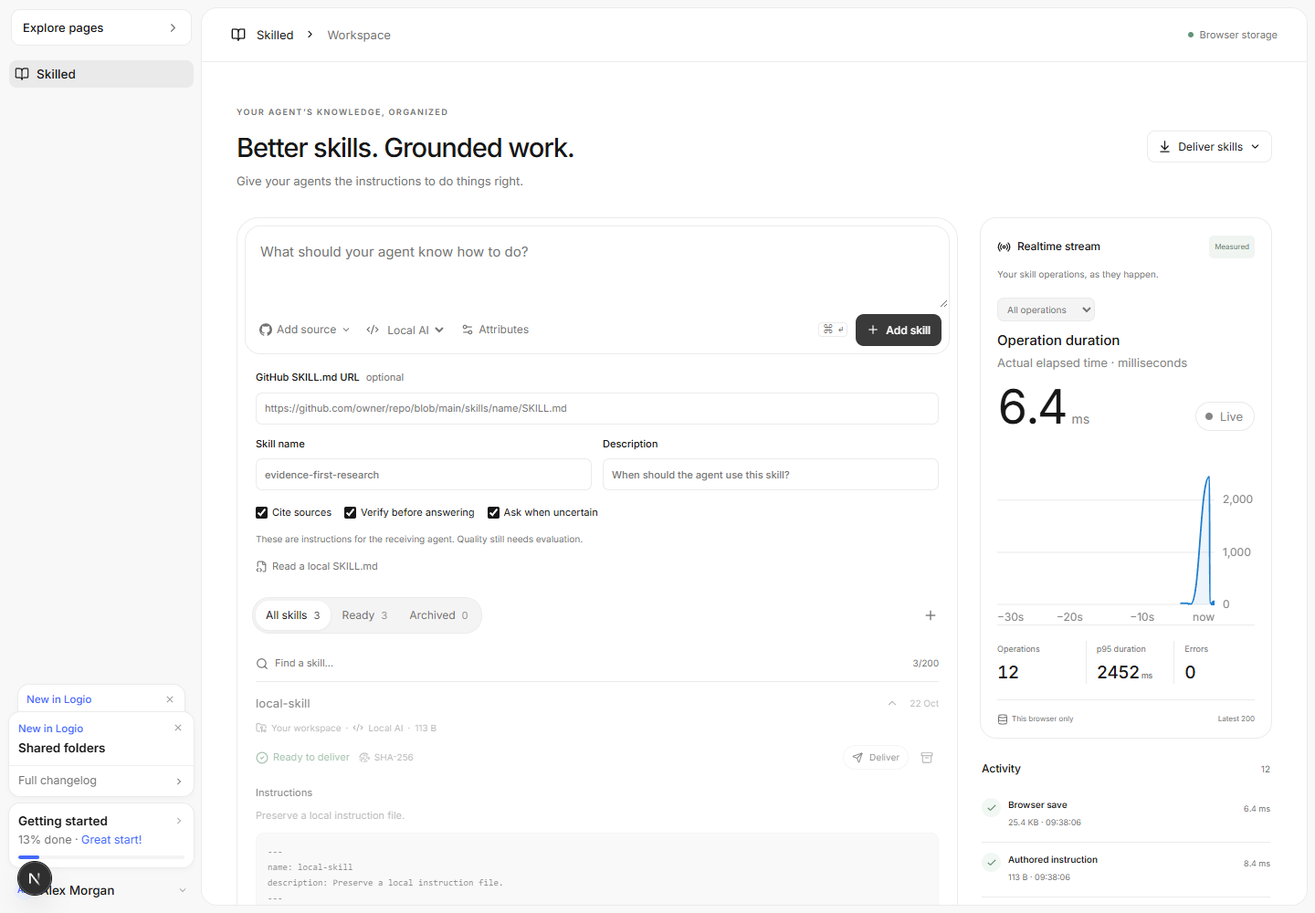
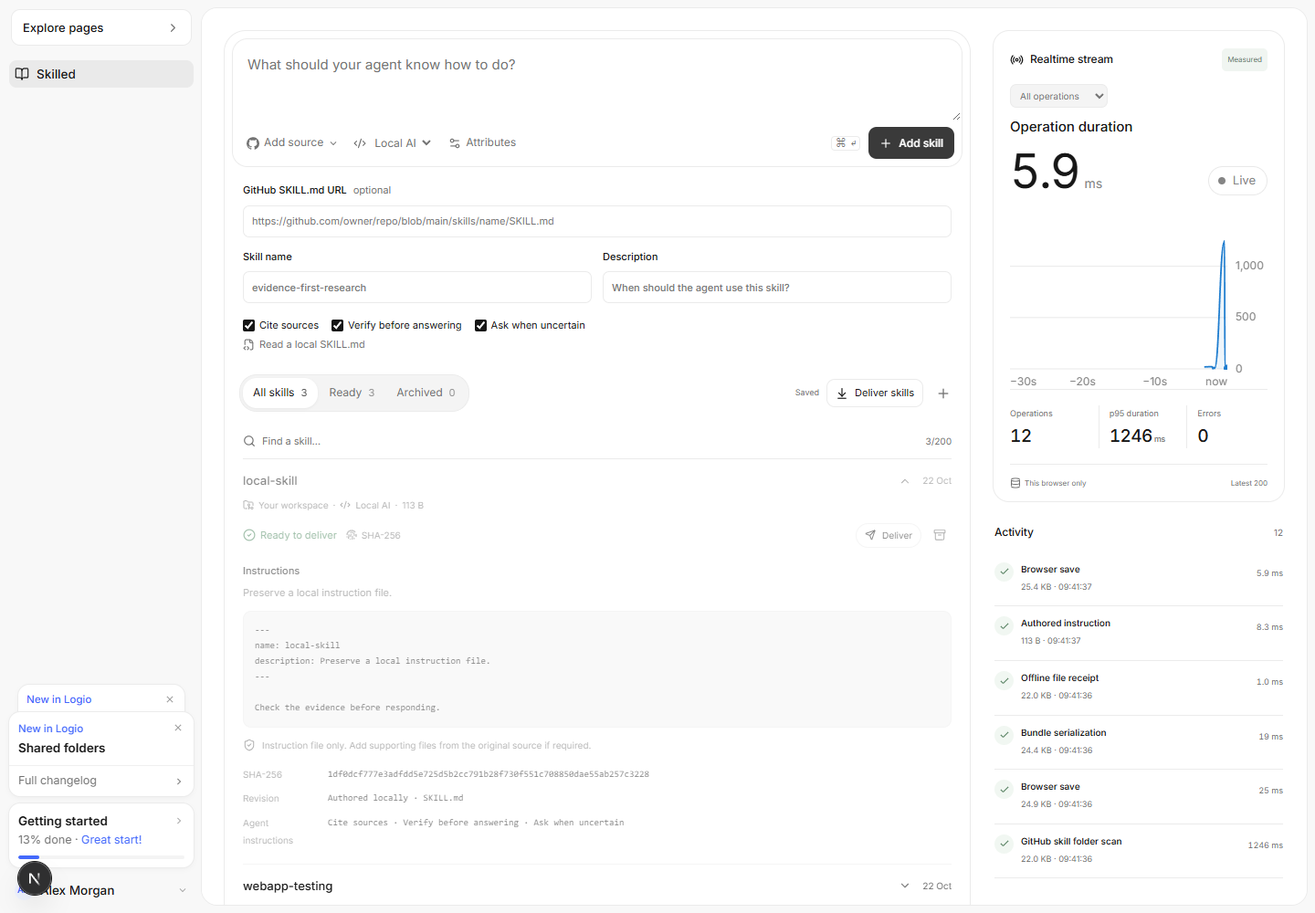
deleted component

diff --git a/src/components/sites/skilled/Skilled.tsx b/src/components/sites/skilled/Skilled.tsx
@@ -2,7 +2,7 @@
 
 import { useEffect, useRef, useState, type FormEvent } from "react";
 import { AnimatePresence, motion } from "motion/react";
-import { Archive, ArrowDownToLine, ArrowRight, BookOpen, Check, CheckCircle2, ChevronDown, ChevronRight, CircleAlert, Code2, Database, FileCode2, Fingerprint, FolderGit2, HardDrive, Loader2, Plus, Radio, RotateCcw, Search, Send, Settings2, ShieldCheck, Sparkles, X } from "lucide-react";
+import { Archive, ArrowDownToLine, ArrowRight, BookOpen, Check, CheckCircle2, ChevronDown, CircleAlert, Code2, Database, FileCode2, Fingerprint, FolderGit2, Loader2, Plus, Radio, RotateCcw, Search, Send, Settings2, ShieldCheck, X } from "lucide-react";
 import { WorkspaceDialog } from "../affectui-crm/WorkspaceDialog";
 import { downloadFile } from "../affectui-crm/workspace-state";
 import { SectionSkeleton } from "../shimmer-loader/SectionSkeleton";
@@ -49,7 +49,6 @@ export function Skilled({ workspaceId }: { workspaceId: string }) {
   const successful = measures.filter(event => event.outcome === "success");
   const sorted = successful.map(event => event.durationMs).sort((a, b) => a - b);
   const p95 = sorted.length ? sorted[Math.ceil(sorted.length * .95) - 1] : null;
-  const totalBytes = skills.reduce((sum, skill) => sum + totalSkillBytes(skill), 0);
   const bytes = (value: number) => value < 1024 ? `${value} B` : `${(value / 1024).toFixed(1)} KB`;
   const tell = (message: string) => { setNotice(message); setError(""); };
 
@@ -149,33 +148,29 @@ export function Skilled({ workspaceId }: { workspaceId: string }) {
   }
 
   if (sync.phase !== "ready") return <SectionSkeleton section="Skilled" />;
-  return <div className="sk-workspace">
-    <header className="sk-topbar"><div><BookOpen size={16} /><span>Skilled</span><ChevronRight size={13} /><span>Workspace</span></div><span className="sk-storage"><i />{backend.remote ? "Connected backend" : "Browser storage"}</span></header>
+  return <div className="sk-workspace" role="region" aria-label="Skilled workspace">
     <div className="sk-content">
-      <div className="sk-heading"><div><div className="sk-eyebrow">YOUR AGENT’S KNOWLEDGE, ORGANIZED</div><h1>Better skills. Grounded work.</h1><p>Give your agents the instructions to do things right.</p></div><button className="sk-secondary" onClick={() => { setSelected(ready.map(skill => skill.id)); setTransfer(true); }} disabled={!ready.length}><ArrowDownToLine size={15} />Deliver skills<ChevronDown size={13} /></button></div>
       <div className="sk-layout"><div className="sk-primary">
         <section className="sk-task-panel" aria-label="Skill library">
           <form className="sk-composer" onSubmit={submit} aria-label="Add a skill">
             <div className="sk-composer-field"><label className="sk-sr-only" htmlFor="sk-instructions">Skill instructions</label><textarea id="sk-instructions" placeholder={url ? "Additional instructions for this skill (optional)" : "What should your agent know how to do?"} value={instructions} onChange={event => { setInstructions(event.target.value); if (!url) setAttributes(true); }} onKeyDown={event => { if ((event.ctrlKey || event.metaKey) && event.key === "Enter") { event.preventDefault(); void addSkill(); } }} maxLength={200000} />
               <div className="sk-composer-bar"><div className="sk-chips"><button type="button" className="sk-chip" onClick={() => { setAttributes(true); document.getElementById("sk-source")?.focus(); }}><Github size={14} /><span>{url ? "GitHub source" : "Add source"}</span><ChevronDown size={12} /></button><label className="sk-chip"><Code2 size={14} /><select aria-label="Skill target" value={target} onChange={event => setTarget(event.target.value as SkillTarget)}><option>Local AI</option><option>AI Agent</option></select></label><button type="button" className="sk-chip" aria-expanded={attributes} onClick={() => setAttributes(!attributes)}><Settings2 size={14} /><span>Attributes</span></button></div><div className="sk-start-slot"><kbd>⌘ ↵</kbd><button className="sk-start" type="submit" disabled={busy || Boolean(sync.error) || (!url.trim() && !instructions.trim())}>{busy ? <Loader2 size={14} className="sk-spin" /> : <Plus size={14} />}Add skill</button></div></div>
             </div>
-            <AnimatePresence initial={false}>{attributes && <motion.div className="sk-attributes" initial={{ height: 0, opacity: 0 }} animate={{ height: "auto", opacity: 1 }} exit={{ height: 0, opacity: 0 }} transition={{ type: "spring", stiffness: 350, damping: 34 }}><div><label htmlFor="sk-source">GitHub SKILL.md URL <span>optional</span></label><input id="sk-source" type="url" placeholder="https://github.com/owner/repo/blob/main/skills/name/SKILL.md" value={url} onChange={event => setUrl(event.target.value)} />{!url && <div className="sk-form-grid"><label>Skill name<input placeholder="evidence-first-research" value={name} maxLength={64} onChange={event => setName(event.target.value)} /></label><label>Description<input placeholder="When should the agent use this skill?" value={description} maxLength={2048} onChange={event => setDescription(event.target.value)} /></label></div>}<div className="sk-guardrails">{([["citeSources", "Cite sources"], ["verifyBeforeAnswer", "Verify before answering"], ["askWhenUncertain", "Ask when uncertain"]] as const).map(([key, label]) => <label key={key}><input type="checkbox" checked={guardrails[key]} onChange={event => setGuardrails({ ...guardrails, [key]: event.target.checked })} />{label}</label>)}</div><p>These are instructions for the receiving agent. Quality still needs evaluation.</p><button type="button" className="sk-text-button" onClick={() => inputFile.current?.click()}><FileCode2 size={13} />Read a local SKILL.md</button><input type="file" accept=".md,text/markdown,text/plain" hidden ref={inputFile} onChange={async event => { const file = event.target.files?.[0]; if (!file) return; if (file.size > 200000) { setError("Choose a SKILL.md smaller than 200 KB."); return; } try { const text = await file.text(); const metadata = parseSkillMarkdown(text); setInstructions(text); setName(metadata.name); setDescription(metadata.description); setUrl(""); tell("SKILL.md read. Original contents will be preserved."); } catch (failure) { setError(failure instanceof Error ? failure.message : "Invalid SKILL.md."); } event.target.value = ""; }} /></div></motion.div>}</AnimatePresence>
+            <AnimatePresence initial={false}>{attributes && <motion.div className="sk-attributes" initial={{ height: 0, opacity: 0 }} animate={{ height: "auto", opacity: 1 }} exit={{ height: 0, opacity: 0 }} transition={{ type: "spring", stiffness: 350, damping: 34 }}><div><label htmlFor="sk-source">GitHub SKILL.md URL <span>optional</span></label><input id="sk-source" type="url" placeholder="https://github.com/owner/repo/blob/main/skills/name/SKILL.md" value={url} onChange={event => setUrl(event.target.value)} />{!url && <div className="sk-form-grid"><label>Skill name<input placeholder="evidence-first-research" value={name} maxLength={64} onChange={event => setName(event.target.value)} /></label><label>Description<input placeholder="When should the agent use this skill?" value={description} maxLength={2048} onChange={event => setDescription(event.target.value)} /></label></div>}<div className="sk-guardrails">{([["citeSources", "Cite sources"], ["verifyBeforeAnswer", "Verify before answering"], ["askWhenUncertain", "Ask when uncertain"]] as const).map(([key, label]) => <label key={key}><input type="checkbox" checked={guardrails[key]} onChange={event => setGuardrails({ ...guardrails, [key]: event.target.checked })} />{label}</label>)}</div><button type="button" className="sk-text-button" onClick={() => inputFile.current?.click()}><FileCode2 size={13} />Read a local SKILL.md</button><input type="file" accept=".md,text/markdown,text/plain" hidden ref={inputFile} onChange={async event => { const file = event.target.files?.[0]; if (!file) return; if (file.size > 200000) { setError("Choose a SKILL.md smaller than 200 KB."); return; } try { const text = await file.text(); const metadata = parseSkillMarkdown(text); setInstructions(text); setName(metadata.name); setDescription(metadata.description); setUrl(""); tell("SKILL.md read. Original contents will be preserved."); } catch (failure) { setError(failure instanceof Error ? failure.message : "Invalid SKILL.md."); } event.target.value = ""; }} /></div></motion.div>}</AnimatePresence>
           </form>
-          <div className="sk-library-toolbar"><div className="sk-tabs" role="tablist" aria-label="Filter skills">{([["all", "All skills"], ["ready", "Ready"], ["archived", "Archived"]] as const).map(([id, label], index) => <button key={id} role="tab" aria-selected={filter === id} tabIndex={filter === id ? 0 : -1} onKeyDown={event => { if (["ArrowLeft", "ArrowRight", "Home", "End"].includes(event.key)) { event.preventDefault(); const next = event.key === "Home" ? 0 : event.key === "End" ? 2 : (index + (event.key === "ArrowRight" ? 1 : 2)) % 3; setFilter((["all", "ready", "archived"] as const)[next]); (event.currentTarget.parentElement?.children[next] as HTMLElement)?.focus(); } }} onClick={() => setFilter(id)}>{filter === id && <motion.span layoutId="skill-filter" transition={{ type: "spring", stiffness: 450, damping: 38 }} />}<span>{label}</span><span className="sk-count">{id === "all" ? skills.length : skills.filter(skill => skill.status === id).length}</span></button>)}</div><button className="sk-icon-button" aria-label="Browse skill sources" onClick={() => setCatalog(true)}><Plus size={16} /></button></div>
+          <div className="sk-library-toolbar"><div className="sk-tabs" role="tablist" aria-label="Filter skills">{([["all", "All skills"], ["ready", "Ready"], ["archived", "Archived"]] as const).map(([id, label], index) => <button key={id} role="tab" aria-selected={filter === id} tabIndex={filter === id ? 0 : -1} onKeyDown={event => { if (["ArrowLeft", "ArrowRight", "Home", "End"].includes(event.key)) { event.preventDefault(); const next = event.key === "Home" ? 0 : event.key === "End" ? 2 : (index + (event.key === "ArrowRight" ? 1 : 2)) % 3; setFilter((["all", "ready", "archived"] as const)[next]); (event.currentTarget.parentElement?.children[next] as HTMLElement)?.focus(); } }} onClick={() => setFilter(id)}>{filter === id && <motion.span layoutId="skill-filter" transition={{ type: "spring", stiffness: 450, damping: 38 }} />}<span>{label}</span><span className="sk-count">{id === "all" ? skills.length : skills.filter(skill => skill.status === id).length}</span></button>)}</div><div className="sk-library-actions"><span className="sk-save-status">{sync.save === "saving" ? "Saving…" : sync.error ? "Save failed" : "Saved"}</span><button className="sk-secondary sk-deliver-all" aria-label="Deliver skills" onClick={() => { setSelected(ready.map(skill => skill.id)); setTransfer(true); }} disabled={!ready.length}><ArrowDownToLine size={14} /><span>Deliver skills</span></button><button className="sk-icon-button" aria-label="Browse skill sources" onClick={() => setCatalog(true)}><Plus size={16} /></button></div></div>
           {skills.length > 0 && <label className="sk-search"><Search size={14} /><input aria-label="Search skills" placeholder="Find a skill…" value={query} onChange={event => setQuery(event.target.value)} /><span>{skills.length}/200</span></label>}
           <div className="sk-cards"><AnimatePresence initial={false}>{visible.map(skill => <motion.article layout key={skill.id} className="sk-card" initial={{ opacity: 0, height: 0 }} animate={{ opacity: 1, height: "auto" }} exit={{ opacity: 0, height: 0 }} transition={{ type: "spring", stiffness: 350, damping: 34 }}>
             <div className="sk-card-title"><button aria-expanded={expanded === skill.id} aria-controls={`detail-${skill.id}`} onClick={() => setExpanded(expanded === skill.id ? null : skill.id)}><span>{skill.name}</span><ChevronDown size={14} /></button><time dateTime={skill.importedAt}>{new Date(skill.importedAt).toLocaleDateString("en-GB", { day: "numeric", month: "short", timeZone: "Asia/Ho_Chi_Minh" })}</time></div>
             <div className="sk-card-meta"><FolderGit2 size={12} /><span>{skill.sourceUrl ? new URL(skill.sourceUrl).pathname.split("/").slice(1, 3).join("/") : "Your workspace"}</span><span>·</span><Code2 size={12} /><span>{skill.target}</span><span>·</span><span>{bytes(totalSkillBytes(skill))}</span></div>
             <div className="sk-card-state"><span><CheckCircle2 size={14} />{skill.status === "archived" ? "Archived" : "Ready to deliver"}</span><span className="sk-checksum"><Fingerprint size={12} />SHA-256</span><div className="sk-card-actions">{skill.status === "ready" ? <><button className="sk-secondary sk-small" onClick={() => { setSelected([skill.id]); setTransfer(true); }}><Send size={12} />Deliver</button><button className="sk-icon-button" aria-label={`Archive ${skill.name}`} onClick={() => archive(skill)}><Archive size={14} /></button></> : <button className="sk-secondary sk-small" onClick={() => { if (skills.some(item => item.id !== skill.id && item.name === skill.name && item.status === "ready")) { setError("Archive the active version before restoring this one."); return; } setSkills(current => current.map(item => item.id === skill.id ? { ...item, status: "ready" } : item)); }}><RotateCcw size={12} />Restore</button>}</div></div>
             <AnimatePresence initial={false}>{expanded === skill.id && <motion.div id={`detail-${skill.id}`} initial={{ height: 0, opacity: 0 }} animate={{ height: "auto", opacity: 1 }} exit={{ height: 0, opacity: 0 }} transition={{ type: "spring", stiffness: 350, damping: 34 }} className="sk-card-details"><div><h3>Instructions</h3><p>{skill.description}</p><pre>{skill.instructions}</pre><div className="sk-provenance"><ShieldCheck size={14} /><span>{skill.files ? `Skill folder captured: ${skill.files.length + 1} files. External tools or packages may still be required.` : "Instruction file only. Add supporting files from the original source if required."}</span></div>{skill.files && skill.files.length > 0 && <div className="sk-file-list"><h3>Supporting files</h3>{skill.files.map(file => <div key={file.path} title={`SHA-256: ${file.sha256}`}><FileCode2 size={12} /><code>{file.path}</code><span>{bytes(file.bytes)}</span></div>)}</div>}{skill.sourceUrl && <a href={skill.sourceUrl} target="_blank" rel="noreferrer">Inspect original source <ArrowRight size={12} /></a>}<dl><dt>SHA-256</dt><dd>{skill.sha256}</dd><dt>Revision</dt><dd>{skill.sourceRef || "Authored locally"} · {skill.sourcePath || "SKILL.md"}</dd><dt>Agent instructions</dt><dd>{Object.entries(skill.guardrails).filter(([, enabled]) => enabled).map(([key]) => ({ citeSources: "Cite sources", verifyBeforeAnswer: "Verify before answering", askWhenUncertain: "Ask when uncertain" })[key]).join(" · ") || "No additional guardrails"}</dd></dl></div></motion.div>}</AnimatePresence>
-          </motion.article>)}</AnimatePresence>{!visible.length && <div className="sk-empty"><div className="sk-empty-icon"><BookOpen size={23} /><span><Plus size={10} /></span></div><h2>{skills.length ? "No skills in this view" : "A little knowledge goes a long way."}</h2><p>{skills.length ? "Try a different filter or search." : "Bring a skill from GitHub, or write your own. Keep the source and instructions together."}</p><button className="sk-secondary" onClick={() => setCatalog(true)}>Explore skill sources<ArrowRight size={14} /></button></div>}</div>
-          <footer className="sk-panel-footer"><ShieldCheck size={13} /><span>Traceable instructions. No hidden agent runs.</span><span>{sync.save === "saving" ? "Saving…" : sync.error ? "Save failed" : "Saved"}</span></footer>
+          </motion.article>)}</AnimatePresence>{!visible.length && <div className="sk-empty"><div className="sk-empty-icon"><BookOpen size={23} /><span><Plus size={10} /></span></div><h2>{skills.length ? "No skills in this view" : "No skills yet"}</h2><p>{skills.length ? "Try a different filter or search." : "Import from GitHub or add your own instructions."}</p><button className="sk-secondary" onClick={() => setCatalog(true)}>Explore skill sources<ArrowRight size={14} /></button></div>}</div>
         </section>
-        <section className="sk-discover"><div className="sk-section-title"><h2>A good place to start</h2><button onClick={() => setCatalog(true)}>View all sources<ArrowRight size={13} /></button></div><div className="sk-source-grid">{skillSources.slice(0, 3).map(source => <button className="sk-source" key={source.path} disabled={busy} onClick={() => { setUrl(sourceUrl(source)); setAttributes(true); setCatalog(false); }}><span className="sk-source-icon"><Github size={17} /></span><span className="sk-source-category">{source.category}</span><h3>{source.name}</h3><p>{source.description}</p><span className="sk-source-owner">{source.owner}<ArrowRight size={13} /></span></button>)}</div></section>
+        <section className="sk-discover"><div className="sk-section-title"><h2>Skill sources</h2><button onClick={() => setCatalog(true)}>View all sources<ArrowRight size={13} /></button></div><div className="sk-source-grid">{skillSources.slice(0, 3).map(source => <button className="sk-source" key={source.path} disabled={busy} onClick={() => { setUrl(sourceUrl(source)); setAttributes(true); setCatalog(false); }}><span className="sk-source-icon"><Github size={17} /></span><span className="sk-source-category">{source.category}</span><h3>{source.name}</h3><p>{source.description}</p><span className="sk-source-owner">{source.owner}<ArrowRight size={13} /></span></button>)}</div></section>
       </div><aside className="sk-observability" aria-label="Skill operations measurement">
-        <section className="sk-monitor"><div className="sk-section-title"><h2><Radio size={15} />Realtime stream</h2><span className="sk-observed">Measured</span></div><p className="sk-monitor-description">Your skill operations, as they happen.</p><select className="sk-metric-select" aria-label="Measurement type" value={metric} onChange={event => setMetric(event.target.value)}><option value="all">All operations</option><option value="save">Storage writes</option><option value="import">Imports</option><option value="export">Bundle exports</option><option value="transfer">Agent transfers</option></select><RealtimeStream points={measures.map(event => ({ t: event.t, value: event.durationMs, anomaly: event.outcome === "error" ? "Failed" : undefined }))} label="Operation duration" description="Actual elapsed time · milliseconds" emptyLabel="Add a skill to see your first measurement" unit="ms" /><div className="sk-metrics"><div><span>Operations</span><strong>{measures.length}</strong></div><div><span>p95 duration</span><strong>{p95 === null ? "—" : p95 < 10 ? p95.toFixed(1) : Math.round(p95)}<small>{p95 !== null && " ms"}</small></strong></div><div><span>Errors</span><strong>{measures.filter(event => event.outcome === "error").length}</strong></div></div><div className="sk-monitor-foot"><span><Database size={12} />{backend.remote ? "Configured REST backend" : "This browser only"}</span><span>Latest 200</span></div></section>
+        <section className="sk-monitor"><div className="sk-section-title"><h2><Radio size={15} />Realtime stream</h2><span className="sk-observed">Measured</span></div><select className="sk-metric-select" aria-label="Measurement type" value={metric} onChange={event => setMetric(event.target.value)}><option value="all">All operations</option><option value="save">Storage writes</option><option value="import">Imports</option><option value="export">Bundle exports</option><option value="transfer">Agent transfers</option></select><RealtimeStream points={measures.map(event => ({ t: event.t, value: event.durationMs, anomaly: event.outcome === "error" ? "Failed" : undefined }))} label="Operation duration" emptyLabel="Add a skill to see your first measurement" unit="ms" /><div className="sk-metrics"><div><span>Operations</span><strong>{measures.length}</strong></div><div><span>p95 duration</span><strong>{p95 === null ? "—" : p95 < 10 ? p95.toFixed(1) : Math.round(p95)}<small>{p95 !== null && " ms"}</small></strong></div><div><span>Errors</span><strong>{measures.filter(event => event.outcome === "error").length}</strong></div></div><div className="sk-monitor-foot"><span><Database size={12} />{backend.remote ? "Configured REST backend" : "This browser only"}</span><span>Latest 200</span></div></section>
         <section className="sk-activity"><div className="sk-section-title"><h2>Activity</h2><span>{events.length}</span></div>{!events.length ? <div className="sk-activity-empty"><span className="sk-quiet-dot" />Waiting for your first operation.</div> : <ol>{events.slice(-6).reverse().map(event => <li key={event.id}><span className="sk-event-icon" data-error={event.outcome === "error"}>{event.outcome === "success" ? <Check size={12} /> : <X size={12} />}</span><div><strong>{event.label}</strong><span title={event.detail}>{event.outcome === "error" ? event.detail : `${bytes(event.bytes)} · ${new Date(event.t).toLocaleTimeString("en-GB", { timeZone: "Asia/Ho_Chi_Minh" })}`}</span></div><small>{event.durationMs < 10 ? event.durationMs.toFixed(1) : Math.round(event.durationMs)} ms</small></li>)}</ol>}</section>
-        <section className="sk-knowledge-note"><Sparkles size={17} /><h3>Grounded starts with a source.</h3><p>Skills guide behavior; they cannot guarantee an answer is correct. Keep evidence, verify outputs, and test with real tasks.</p><div><HardDrive size={13} /><span>{ready.length} ready · {bytes(totalBytes)} of skill files</span></div></section>
       </aside></div>
       {(error || sync.error || eventsSync.error) && <div className="sk-error" role="alert"><CircleAlert size={16} /><span>{error || sync.error?.message || eventsSync.error?.message}</span>{sync.error && <button onClick={sync.retry}>Retry save</button>}{eventsSync.error && <button onClick={eventsSync.retry}>Retry activity save</button>}<button aria-label="Dismiss error" onClick={() => setError("")}><X size={14} /></button></div>}
       <div className="sk-notice" role="status">{notice && <><CheckCircle2 size={14} /><span>{notice}</span>{undo && <button onClick={() => { const previous = undo; if (skills.some(item => item.name === previous.name && item.id !== previous.id && item.status === "ready")) { setError("Archive the active version before undoing."); return; } setSkills(current => current.map(item => item.id === previous.id ? previous : item)); setUndo(null); tell("Archive undone."); }}>Undo</button>}<button aria-label="Dismiss notice" onClick={() => { setNotice(""); setUndo(null); }}><X size={13} /></button></>}</div>

diff --git a/src/components/sites/skilled/skilled.css b/src/components/sites/skilled/skilled.css
@@ -5,16 +5,7 @@
 .sk-workspace button { cursor:pointer; }
 .sk-workspace button:disabled { opacity:.45; cursor:not-allowed; }
 .sk-workspace :is(button,input,textarea,select):focus-visible { outline:2px solid #497eee; outline-offset:3px; }
-.sk-workspace .sk-topbar { height:59px; border-bottom:1px solid var(--sk-line); padding:0 32px; display:flex; align-items:center; justify-content:space-between; gap:12px; }
-.sk-topbar>div { display:flex; align-items:center; gap:12px; }
-.sk-topbar>div>span:last-child { color:var(--sk-muted); }
-.sk-storage { display:flex; gap:7px; align-items:center; color:var(--sk-muted); font-size:11px; }
-.sk-storage i { width:6px; height:6px; border-radius:50%; background:#639479; }
-.sk-content { max-width:1450px; padding:46px 38px 20px; margin:auto; }
-.sk-heading { display:flex; align-items:center; justify-content:space-between; gap:20px; margin-bottom:30px; }
-.sk-eyebrow { color:var(--sk-muted); font-size:9px; font-weight:550; letter-spacing:1.4px; margin-bottom:12px; }
-.sk-heading h1 { font-size:29px; font-weight:500; letter-spacing:-1.05px; line-height:1.2; margin:0; }
-.sk-heading p { color:var(--sk-muted); font-size:13px; margin:10px 0 0; }
+.sk-content { max-width:1450px; padding:24px 24px 20px; margin:auto; }
 .sk-workspace :is(.sk-secondary,.sk-start) { display:inline-flex; align-items:center; justify-content:center; gap:7px; padding:8px 11px; border:1px solid var(--sk-line); border-radius:9px; white-space:nowrap; font-size:12px; line-height:17px; background:var(--sk-surface); color:var(--sk-ink); transition:background .16s cubic-bezier(.22,1,.36,1),transform .16s; }
 .sk-workspace .sk-secondary:hover { background:var(--sk-tray); }
 .sk-workspace .sk-start { background:var(--sk-ink); color:var(--sk-surface); border-color:transparent; font-weight:500; }
@@ -45,7 +36,10 @@
 .sk-workspace input[type=checkbox] { accent-color:var(--sk-ink); width:13px; height:13px; }
 .sk-attributes p { font-size:10px; color:var(--sk-muted); margin:10px 0; }
 .sk-text-button { border:0; background:transparent; display:flex; align-items:center; gap:5px; padding:2px 0; font-size:11px!important; color:var(--sk-muted); }
-.sk-library-toolbar { padding:14px 16px 8px; display:flex; align-items:center; justify-content:space-between; }
+.sk-library-toolbar { padding:14px 16px 8px; display:flex; flex-wrap:wrap; gap:8px; align-items:center; justify-content:space-between; }
+.sk-library-actions { display:flex; align-items:center; gap:8px; margin-left:auto; }
+.sk-save-status { color:var(--sk-muted); font-size:9px; }
+.sk-workspace .sk-deliver-all { padding:6px 9px; font-size:11px; }
 .sk-tabs { display:flex; background:var(--sk-tray); border:1px solid var(--sk-line); border-radius:19px; padding:3px; gap:2px; }
 .sk-tabs button { position:relative; display:flex; align-items:center; gap:7px; padding:7px 11px; color:var(--sk-muted); background:transparent; border:0; border-radius:15px; font-size:12px; }
 .sk-tabs button[aria-selected=true] { color:var(--sk-ink); }
@@ -88,13 +82,11 @@
 .sk-file-list>div { display:flex; align-items:center; gap:7px; padding:5px 0; color:var(--sk-muted); font-size:10px; }
 .sk-file-list code { flex:1; overflow-wrap:anywhere; font-size:10px; }
 .sk-file-list>div>span { white-space:nowrap; font-variant-numeric:tabular-nums; }
-.sk-empty { min-height:282px; padding:40px 18px 35px; display:flex; flex-direction:column; align-items:center; justify-content:center; text-align:center; }
+.sk-empty { min-height:220px; padding:24px 18px; display:flex; flex-direction:column; align-items:center; justify-content:center; text-align:center; }
 .sk-empty-icon { position:relative; display:grid; place-items:center; width:49px; height:49px; background:linear-gradient(var(--sk-surface),var(--sk-tray)); border:1px solid var(--sk-line); border-radius:14px; color:var(--sk-muted); box-shadow:0 3px 7px #00000005; }
 .sk-empty-icon>span { display:grid; place-items:center; position:absolute; right:-5px; bottom:-3px; width:19px; height:19px; border-radius:50%; background:var(--sk-surface); border:1px solid var(--sk-line); }
 .sk-empty h2 { font-size:15px; letter-spacing:-.3px; font-weight:500; margin:20px 0 0; }
 .sk-empty p { max-width:310px; color:var(--sk-muted); font-size:11px; line-height:1.7; margin:9px 0 18px; }
-.sk-panel-footer { display:flex; align-items:center; gap:6px; padding:12px 18px; border-top:1px solid var(--sk-line); color:var(--sk-muted); font-size:9px; }
-.sk-panel-footer>span:last-child { margin-left:auto; }
 .sk-discover { margin-top:29px; }
 .sk-section-title { display:flex; align-items:center; justify-content:space-between; gap:10px; }
 .sk-section-title h2 { display:flex; align-items:center; gap:7px; margin:0; font-size:12px; font-weight:500; letter-spacing:-.1px; }
@@ -110,8 +102,7 @@
 .sk-source-owner svg { flex:none; }
 .sk-monitor { border:1px solid var(--sk-line); border-radius:18px; padding:19px 18px 0; background:var(--sk-surface); overflow:hidden; }
 .sk-observed { font-size:8px; background:#f0f5f1; color:#64816c; border-radius:5px; padding:3px 6px; }
-.sk-monitor-description { color:var(--sk-muted); font-size:10px; margin:8px 0 17px; }
-.sk-metric-select { color:var(--sk-muted); background:var(--sk-tray); border:1px solid var(--sk-line); border-radius:7px; padding:5px 6px; font-size:10px!important; margin-bottom:10px; }
+.sk-metric-select { color:var(--sk-muted); background:var(--sk-tray); border:1px solid var(--sk-line); border-radius:7px; padding:5px 6px; font-size:10px!important; margin:14px 0 10px; }
 .sk-metrics { display:grid; grid-template-columns:repeat(3,1fr); padding:17px 0; border-top:1px solid var(--sk-line); gap:8px; }
 .sk-metrics>div { padding-left:11px; border-left:1px solid var(--sk-line); }
 .sk-metrics>div:first-child { padding-left:0; border:0; }
@@ -132,10 +123,6 @@
 .sk-activity li strong { font-size:10px; font-weight:450; display:block; line-height:1.5; }
 .sk-activity li>div>span { display:block; color:var(--sk-muted); font-size:9px; margin-top:3px; text-overflow:ellipsis; overflow:hidden; white-space:nowrap; }
 .sk-activity li>small { color:var(--sk-muted); font-size:9px; padding-top:3px; font-variant-numeric:tabular-nums; }
-.sk-knowledge-note { padding:19px 17px 14px; background:var(--sk-tray); border:1px solid var(--sk-line); border-radius:13px; margin-top:23px; color:var(--sk-muted); }
-.sk-knowledge-note h3 { font-size:11px; font-weight:500; color:var(--sk-ink); margin:11px 0 7px; }
-.sk-knowledge-note p { font-size:10px; line-height:1.8; margin:0; }
-.sk-knowledge-note>div { display:flex; align-items:center; gap:6px; border-top:1px solid var(--sk-line); padding-top:12px; margin-top:15px; font-size:9px; }
 .sk-error,.sk-notice:not(:empty) { display:flex; align-items:center; gap:8px; border:1px solid var(--sk-line); border-radius:10px; padding:11px 13px; font-size:11px; margin-top:16px; background:var(--sk-surface); }
 .sk-error { color:#b74d42; }
 .sk-error>span,.sk-notice>span { flex:1; }
@@ -162,8 +149,8 @@
 .sk-spin { animation:sk-spin 1s linear infinite; }
 @keyframes sk-spin { to { transform:rotate(360deg); } }
 @container (max-width:520px) { .sk-start-slot kbd { display:none; } .sk-composer-bar { flex-wrap:wrap; } .sk-start-slot { margin-left:auto; } .sk-card-state .sk-checksum { display:none; } }
-@media(min-width:1650px) { .sk-layout { grid-template-columns:minmax(0,1fr) 360px; gap:30px; } .sk-content { padding-top:55px; } }
-@media(max-width:1200px) { .sk-content { padding:35px 24px 20px; } .sk-layout { grid-template-columns:minmax(0,1fr) 290px; gap:18px; } .sk-heading h1 { font-size:25px; } .sk-source-grid { grid-template-columns:1fr; } .sk-source { display:grid; grid-template-columns:25px 1fr; column-gap:10px; } .sk-source-icon { grid-row:1/5; margin:4px 0; } .sk-source p { min-height:0; margin:0 0 8px; } }
-@media(max-width:1040px) { .sk-layout { grid-template-columns:minmax(0,1fr); } .sk-observability { display:grid; grid-template-columns:1fr 1fr; gap:20px; align-items:start; } .sk-activity { margin:6px 0 0; } .sk-knowledge-note { margin:0; grid-column:2; } .sk-monitor { grid-row:1/3; } .sk-source-grid { grid-template-columns:repeat(3,minmax(0,1fr)); } .sk-source { display:block; } .sk-source p { min-height:54px; } .sk-source-icon { margin-bottom:12px; } }
-@media(max-width:600px) { .sk-workspace .sk-topbar { padding:0 17px 0 52px; height:53px; } .sk-storage { font-size:9px; } .sk-topbar>div { gap:7px; font-size:11px; } .sk-topbar>div>span:last-child,.sk-topbar>div>svg:last-of-type { display:none; } .sk-content { padding:29px 14px 18px; } .sk-heading { align-items:flex-start; flex-direction:column; margin-bottom:21px; gap:16px; } .sk-heading h1 { font-size:25px; } .sk-heading p { font-size:11px; } .sk-eyebrow { font-size:8px; letter-spacing:1.1px; } .sk-observability { display:block; } .sk-activity { margin-top:24px; } .sk-knowledge-note { margin-top:24px; } .sk-source-grid { grid-template-columns:1fr; } .sk-source { display:grid; } .sk-source p { min-height:0; } .sk-source-icon { margin:4px 0; } .sk-form-grid { grid-template-columns:1fr; } .sk-tabs button { font-size:11px; padding:7px 8px; gap:5px; } .sk-task-panel { border-radius:19px; } .sk-panel-footer { font-size:8px; padding:10px 12px; } .sk-card-state { gap:5px; } .sk-cards { padding:0 14px; } .sk-catalog>div { flex-wrap:wrap; } .sk-catalog>div>div { min-width:150px; } .sk-catalog>div>button { margin-left:33px; } }
+@media(min-width:1650px) { .sk-layout { grid-template-columns:minmax(0,1fr) 360px; gap:30px; }  }
+@media(max-width:1200px) { .sk-content { padding:20px 20px 18px; } .sk-layout { grid-template-columns:minmax(0,1fr) 290px; gap:18px; }  .sk-source-grid { grid-template-columns:1fr; } .sk-source { display:grid; grid-template-columns:25px 1fr; column-gap:10px; } .sk-source-icon { grid-row:1/5; margin:4px 0; } .sk-source p { min-height:0; margin:0 0 8px; } }
+@media(max-width:1040px) { .sk-layout { grid-template-columns:minmax(0,1fr); } .sk-observability { display:grid; grid-template-columns:1fr 1fr; gap:20px; align-items:start; } .sk-activity { margin:6px 0 0; }   .sk-source-grid { grid-template-columns:repeat(3,minmax(0,1fr)); } .sk-source { display:block; } .sk-source p { min-height:54px; } .sk-source-icon { margin-bottom:12px; } }
+@media(max-width:600px) {     .sk-content { padding:12px 12px 18px; } .sk-deliver-all>span { display:none; } .sk-save-status { display:none; }     .sk-observability { display:block; } .sk-activity { margin-top:24px; }  .sk-source-grid { grid-template-columns:1fr; } .sk-source { display:grid; } .sk-source p { min-height:0; } .sk-source-icon { margin:4px 0; } .sk-form-grid { grid-template-columns:1fr; } .sk-tabs button { font-size:11px; padding:7px 8px; gap:5px; } .sk-task-panel { border-radius:19px; }  .sk-card-state { gap:5px; } .sk-cards { padding:0 14px; } .sk-catalog>div { flex-wrap:wrap; } .sk-catalog>div>div { min-width:150px; } .sk-catalog>div>button { margin-left:33px; } }
 @media(prefers-reduced-motion:reduce) { .sk-workspace *, .sk-workspace *::before, .sk-workspace *::after { animation:none!important; transition:none!important; scroll-behavior:auto!important; } }

diff --git a/docs/research/uiarc-skilled/README.md b/docs/research/uiarc-skilled/README.md
@@ -2,6 +2,8 @@
 
 Implemented 2026-10-22. Local route: `/skilled` (also available through the Skilled workspace group). Replaces the old full-page context-window preview; the context-window component remains in the Explore pages selector.
 
+Layout cleanup: the introductory heading, breadcrumb/storage top bar and passive knowledge note were removed at the user's request. The composer and stream now start near the top of the workspace; Deliver skills and save status share the library toolbar. Decorative footer copy was removed, while actionable help and operation/error states remain. Verified with the 27 browser workflow checks, targeted ESLint and TypeScript; desktop and 390px/320px screenshots are `layout-clean-*.png`, with no horizontal overflow.
+
 ## Reference → implementation
 
 | Public reference | Local owner | What is retained |
